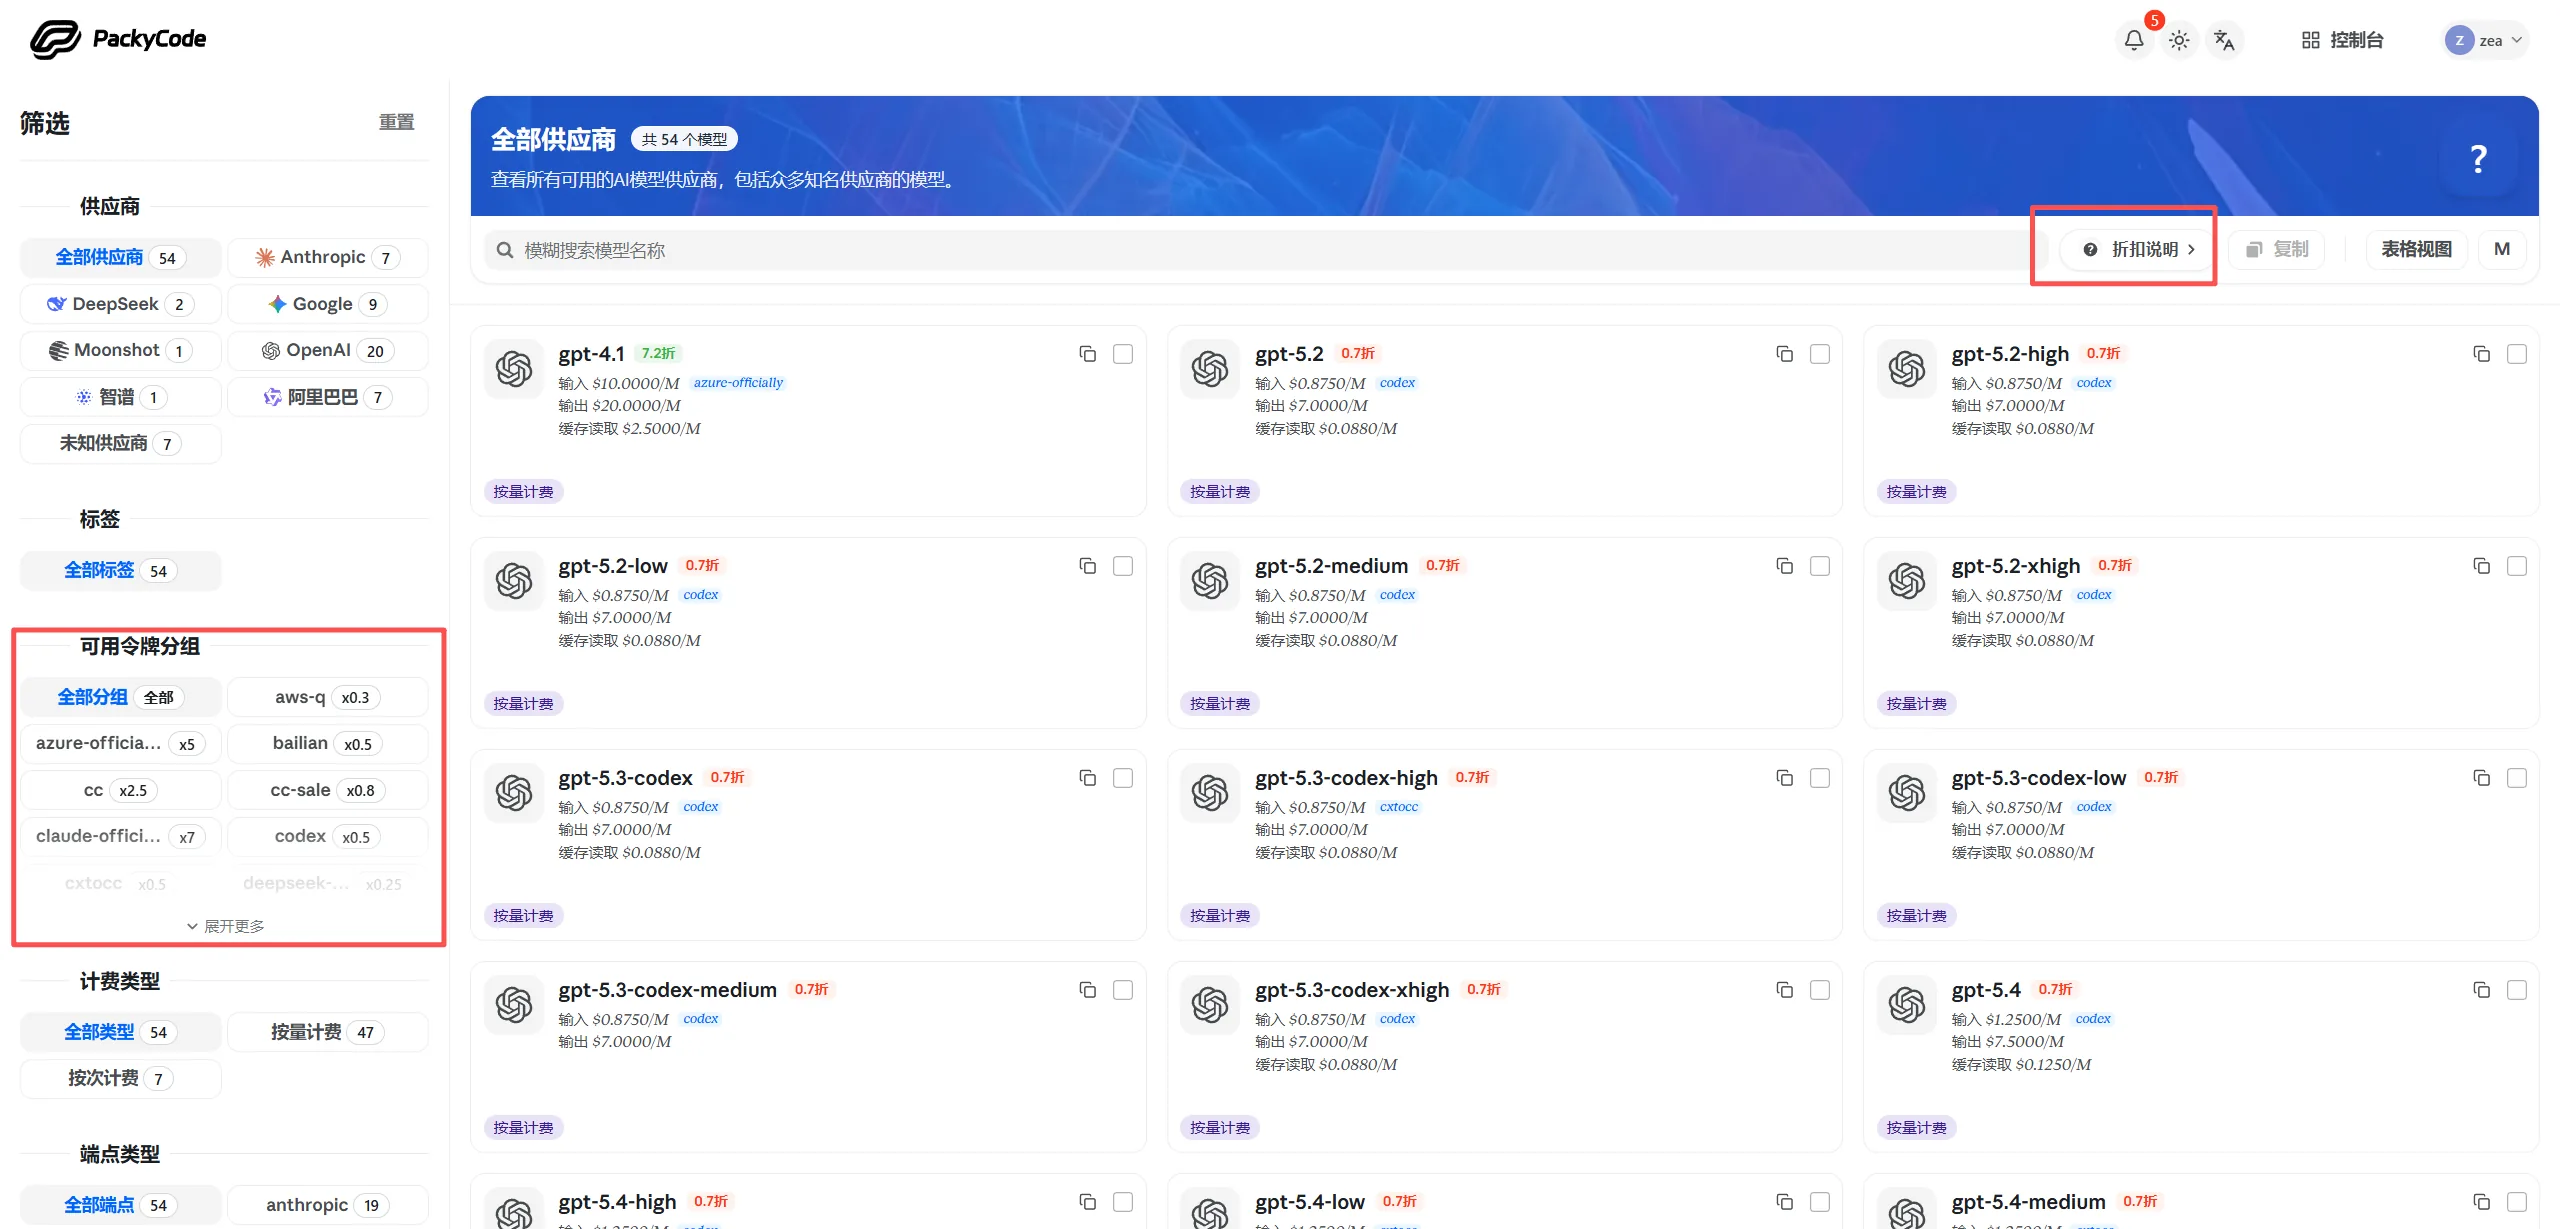
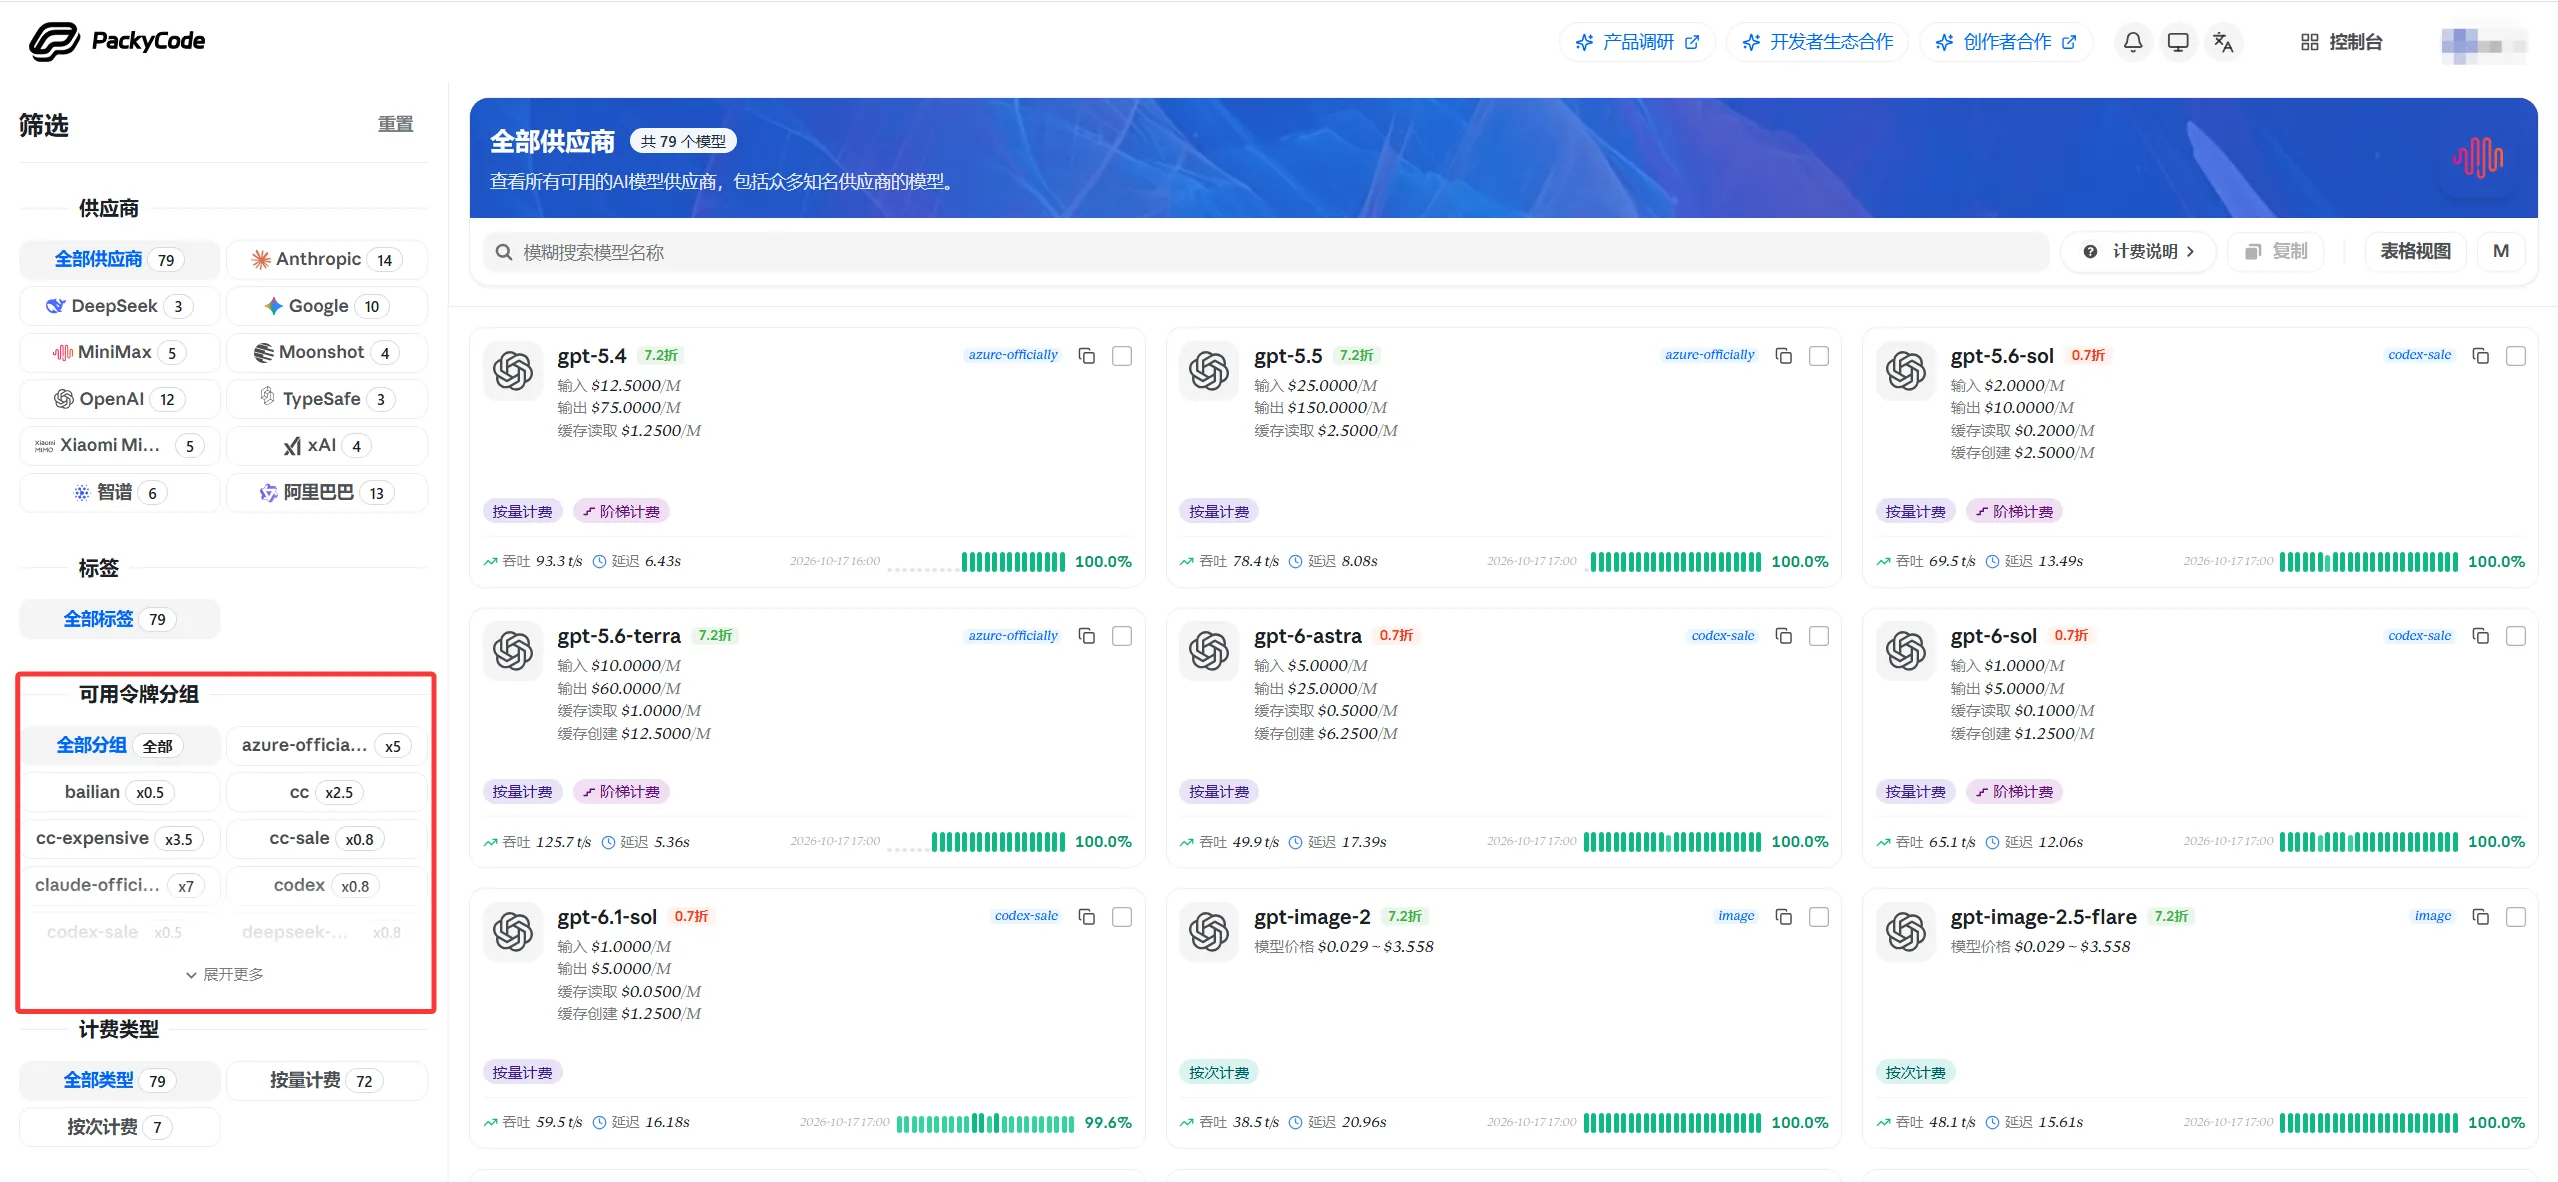
docs: 模型广场页改名并重写，配图更新为当前界面
- token/1-intro 的 title 由「令牌分组查看」改为「模型广场」，与侧边栏导航一致；register 两处指向该页的链接文案同步为「模型广场」
- 模型广场页重写：补回入口说明（控制台右上角「模型广场」）与入口截图、直链 https://www.packyapi.ai/pricing，按当前界面重写查看步骤，并逐项说明可用令牌分组、模型卡片、折扣与计费方式、吞吐与延迟、端点类型
- register/4-token「查看分组可用模型」重排：入口截图移到步骤之前，步骤按当前界面更新，「折扣说明」改为「计费说明」
- 配图 QuickStart/008.webp 与 Model/002.webp 更新为当前模型广场界面（已转 webp，2558x1182）
- 删除已无引用、且画面为旧域名（www.packyapi.com / api-slb.packyapi.com）的 Model/001.webp

diff --git a/src/docs/token/1-intro.md b/src/docs/token/1-intro.md
@@ -1,21 +1,38 @@
 ---
-title: 令牌分组查看
+title: 模型广场
 icon: material-symbols:view-in-ar-outline
 order: 1
 ---
 
 ## 如何查看最新分组
 
-1. 在控制台面板，点击右上角“模型广场”，进入分组与模型的查看
+你可以在“模型广场”查看每个令牌分组下支持哪些模型。入口在控制台页面的右上角：
 
-2. 进入模型广场，左侧红框处就是[创建API令牌](/docs/register/4-token.html)
-步骤提到的令牌分组，右侧就是该分组下所存在的模型
+![](/assets/image/QuickStart/007.webp)
 
-3. 左侧分组名后显示的类似x0.5就是该模型的倍率：
-    - 选择不同令牌分组可以享受不同的计费倍率
-    - 倍率 < 1 享折扣：0.8倍 = 8折，0.5倍 = 5折
-    - 倍率 > 1 需加价：1.5倍 = 额外支付50%费用
-    - 不选择则使用您的默认计费倍率（1x）
+也可以在浏览器里直接打开 <https://www.packyapi.ai/pricing>。
+
+进入模型广场后：
+
+1. 在左侧“可用令牌分组”中点击要使用的分组，右侧就只剩这个分组可用的模型。
+2. 模型卡片右上角会标出所属分组，卡片里能看到模型 ID、输入 / 输出 / 缓存读取价格，以及实时的吞吐和延迟。
+3. 需要按请求协议筛选时用左侧的“端点类型”；想一次看完全部模型的价格，点右上角的“表格视图”。
+
+![](/assets/image/Model/002.webp)
+
+- **可用令牌分组**：左侧栏红框处。分组名后的 `x0.5` 是这个分组的计费倍率，点「展开更多」能看到其它分组。
+- **模型卡片**：右上角的蓝色小字是模型所属分组（如 `azure-officially`、`codex-sale`、`image`），下面是模型 ID 与输入 / 输出 / 缓存读取价格。
+- **折扣与计费方式**：模型名后面的「7.2折」是当前折扣，卡片上的「按量计费」「按次计费」「阶梯计费」是计费方式，规则可点搜索框右侧的「计费说明」查看。
+- **吞吐 / 延迟**：卡片底部是平台实测的吞吐、延迟和成功率，后面跟着采样时间，挑分组时可以一并参考。
+- **端点类型**：左侧栏底部，按请求协议筛选模型（`anthropic`、`openai`、`openai-response` 等）。
+
+### 倍率怎么算
+
+左侧分组名后会带一个倍率，例如 `cc x2.5`、`cc-sale x0.8`：
+
+- 选择不同令牌分组可以享受不同的计费倍率
+- 倍率 < 1 享折扣：0.8倍 = 8折，0.5倍 = 5折
+- 倍率 > 1 需加价：1.5倍 = 额外支付50%费用
 
 ::: warning 为什么要教你这一步？
 授人以鱼不如授人以渔，很多人只知道去看分组名，其实压根不知道这个分组下有哪些模型，稀里糊涂配置以后，使用就会提示“模型不存在”。
@@ -23,6 +40,6 @@ order: 1
 **为了杜绝这种情况发生，我们直接教你怎么去查看每个分组的详细信息。**
 :::
 
-![](/assets/image/Model/001.webp)
-
-![](/assets/image/Model/002.webp)
+::: tip 还没有创建令牌？
+创建令牌时怎么选分组、选完怎么核对模型，完整步骤在 [创建 API 令牌 · 查看分组可用模型](/docs/register/4-token.html#%E6%9F%A5%E7%9C%8B%E5%88%86%E7%BB%84%E5%8F%AF%E7%94%A8%E6%A8%A1%E5%9E%8B) 一节。
+:::

diff --git a/src/docs/token/README.md b/src/docs/token/README.md
@@ -8,16 +8,34 @@ date: 2026-06-10
 ---
 
 ## 如何查看最新分组
-1. 在控制台面板，点击右上角“模型广场”，进入分组与模型的查看
 
-2. 进入模型广场，左侧红框处就是[创建API令牌](/docs/register/4-token.html)
-步骤提到的令牌分组，右侧就是该分组下所存在的模型
+你可以在“模型广场”查看每个令牌分组下支持哪些模型。入口在控制台页面的右上角：
 
-3. 左侧分组名后显示的类似x0.5就是该模型的倍率：
-    - 选择不同令牌分组可以享受不同的计费倍率
-    - 倍率 < 1 享折扣：0.8倍 = 8折，0.5倍 = 5折
-    - 倍率 > 1 需加价：1.5倍 = 额外支付50%费用
-    - 不选择则使用您的默认计费倍率（1x）
+![](/assets/image/QuickStart/007.webp)
+
+也可以在浏览器里直接打开 <https://www.packyapi.ai/pricing>。
+
+进入模型广场后：
+
+1. 在左侧“可用令牌分组”中点击要使用的分组，右侧就只剩这个分组可用的模型。
+2. 模型卡片右上角会标出所属分组，卡片里能看到模型 ID、输入 / 输出 / 缓存读取价格，以及实时的吞吐和延迟。
+3. 需要按请求协议筛选时用左侧的“端点类型”；想一次看完全部模型的价格，点右上角的“表格视图”。
+
+![](/assets/image/Model/002.webp)
+
+- **可用令牌分组**：左侧栏红框处。分组名后的 `x0.5` 是这个分组的计费倍率，点「展开更多」能看到其它分组。
+- **模型卡片**：右上角的蓝色小字是模型所属分组（如 `azure-officially`、`codex-sale`、`image`），下面是模型 ID 与输入 / 输出 / 缓存读取价格。
+- **折扣与计费方式**：模型名后面的「7.2折」是当前折扣，卡片上的「按量计费」「按次计费」「阶梯计费」是计费方式，规则可点搜索框右侧的「计费说明」查看。
+- **吞吐 / 延迟**：卡片底部是平台实测的吞吐、延迟和成功率，后面跟着采样时间，挑分组时可以一并参考。
+- **端点类型**：左侧栏底部，按请求协议筛选模型（`anthropic`、`openai`、`openai-response` 等）。
+
+### 倍率怎么算
+
+左侧分组名后会带一个倍率，例如 `cc x2.5`、`cc-sale x0.8`：
+
+- 选择不同令牌分组可以享受不同的计费倍率
+- 倍率 < 1 享折扣：0.8倍 = 8折，0.5倍 = 5折
+- 倍率 > 1 需加价：1.5倍 = 额外支付50%费用
 
 ::: warning 为什么要教你这一步？
 授人以鱼不如授人以渔，很多人只知道去看分组名，其实压根不知道这个分组下有哪些模型，稀里糊涂配置以后，使用就会提示“模型不存在”。
@@ -25,9 +43,9 @@ date: 2026-06-10
 **为了杜绝这种情况发生，我们直接教你怎么去查看每个分组的详细信息。**
 :::
 
-![](/assets/image/Model/001.webp)
-
-![](/assets/image/Model/002.webp)
+::: tip 还没有创建令牌？
+创建令牌时怎么选分组、选完怎么核对模型，完整步骤在 [创建 API 令牌 · 查看分组可用模型](/docs/register/4-token.html#%E6%9F%A5%E7%9C%8B%E5%88%86%E7%BB%84%E5%8F%AF%E7%94%A8%E6%A8%A1%E5%9E%8B) 一节。
+:::
 
 ## 令牌分组介绍
 

diff --git a/src/docs/register/README.md b/src/docs/register/README.md
@@ -556,17 +556,25 @@ onMounted(() => {
 
 ### 查看分组可用模型
 
-你可以在“模型广场”查看每个令牌分组下支持哪些模型。
-
-![](/assets/image/QuickStart/008.webp)
-
-1. 点击页面右上角“模型广场”。
-2. 在左侧“可用令牌分组”中选择分组。
-3. 右侧模型卡片会显示该分组可用的模型、价格和折扣倍率。
+你可以在“模型广场”查看每个令牌分组下支持哪些模型。入口在控制台页面的右上角：
 
 ![](/assets/image/QuickStart/007.webp)
 
-如果你想了解折扣含义，可以点击模型广场右上方的“折扣说明”。
+也可以在浏览器里直接打开 <https://www.packyapi.ai/pricing>。
+
+进入模型广场后：
+
+1. 在左侧“可用令牌分组”中点击要使用的分组，右侧就只显示这个分组可用的模型。
+2. 模型卡片右上角会标出所属分组，卡片里能看到模型 ID、输入 / 输出 / 缓存读取价格，以及实时的吞吐和延迟。
+3. 需要按请求协议筛选时用左侧的“端点类型”；想一次看完全部模型的价格，点右上角的“表格视图”。
+
+![](/assets/image/QuickStart/008.webp)
+
+模型名称后面的“7.2折”是当前折扣，下方的“按量计费”“按次计费”“阶梯计费”是计费方式，具体的计算规则可以点搜索框右侧的“计费说明”查看。
+
+::: tip 分组和模型 ID 要一起对
+分组决定这个令牌能用哪些模型，模型 ID 决定实际调用哪一个。想了解每个分组分别支持什么，请阅读 [模型广场](/docs/token/1-intro.html)。
+:::
 
 ## 第五步：环境检查
 

diff --git a/src/docs/register/4-token.md b/src/docs/register/4-token.md
@@ -36,14 +36,22 @@ order: 4
 
 ### 查看分组可用模型
 
-你可以在“模型广场”查看每个令牌分组下支持哪些模型。
-
-![](/assets/image/QuickStart/008.webp)
-
-1. 点击页面右上角“模型广场”。
-2. 在左侧“可用令牌分组”中选择分组。
-3. 右侧模型卡片会显示该分组可用的模型、价格和折扣倍率。
+你可以在“模型广场”查看每个令牌分组下支持哪些模型。入口在控制台页面的右上角：
 
 ![](/assets/image/QuickStart/007.webp)
 
-如果你想了解折扣含义，可以点击模型广场右上方的“折扣说明”。
+也可以在浏览器里直接打开 <https://www.packyapi.ai/pricing>。
+
+进入模型广场后：
+
+1. 在左侧“可用令牌分组”中点击要使用的分组，右侧就只显示这个分组可用的模型。
+2. 模型卡片右上角会标出所属分组，卡片里能看到模型 ID、输入 / 输出 / 缓存读取价格，以及实时的吞吐和延迟。
+3. 需要按请求协议筛选时用左侧的“端点类型”；想一次看完全部模型的价格，点右上角的“表格视图”。
+
+![](/assets/image/QuickStart/008.webp)
+
+模型名称后面的“7.2折”是当前折扣，下方的“按量计费”“按次计费”“阶梯计费”是计费方式，具体的计算规则可以点搜索框右侧的“计费说明”查看。
+
+::: tip 分组和模型 ID 要一起对
+分组决定这个令牌能用哪些模型，模型 ID 决定实际调用哪一个。想了解每个分组分别支持什么，请阅读 [模型广场](/docs/token/1-intro.html)。
+:::
